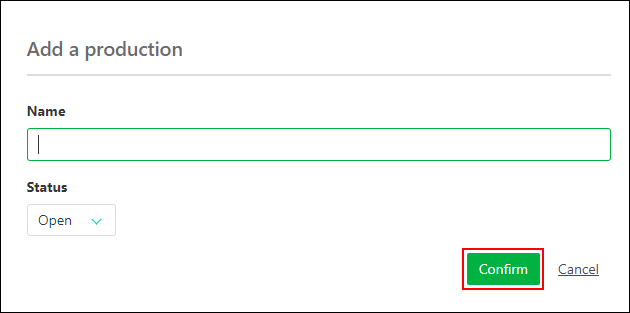
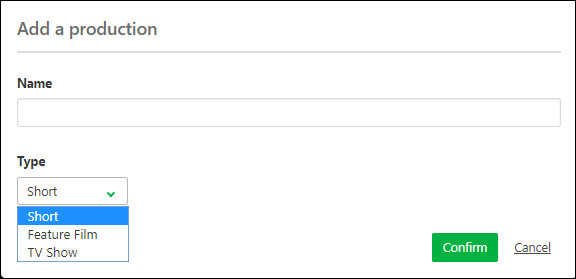
getting started menu fix

diff --git a/docs/getting-started-production/README.md b/docs/getting-started-production/README.md
@@ -7,8 +7,9 @@ production** button.
 
 ![Create a production](../img/getting-started/create_production.png)
 
-Enter the name of your production, leave the status as **Open** if you want to
-work immediately on it. Then validate by clicking on **Confirm**.
+Enter the name of your production, choose **TV Show** if you need more than one episode.
+or 
+ Then validate by clicking on **Confirm**.
 
 ![Add a production](../img/getting-started/add_production.png)
 
